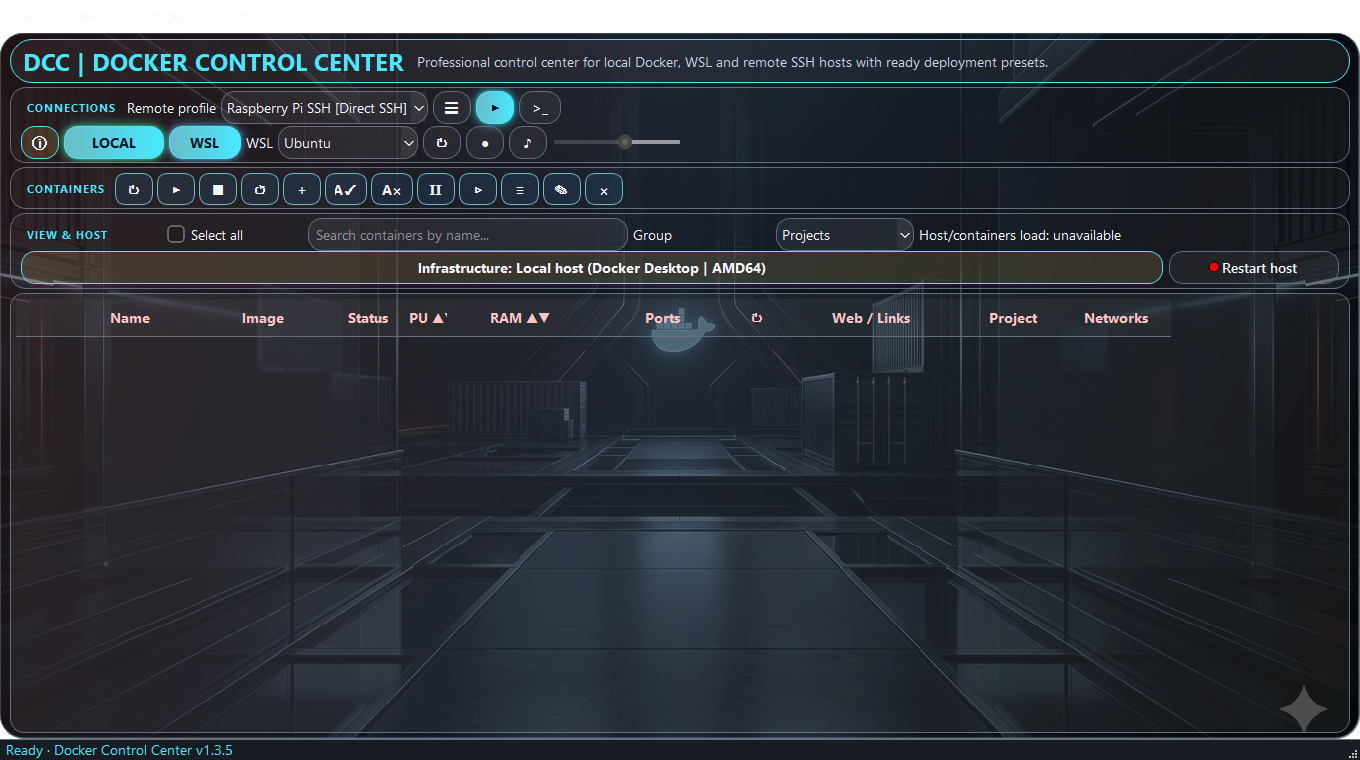
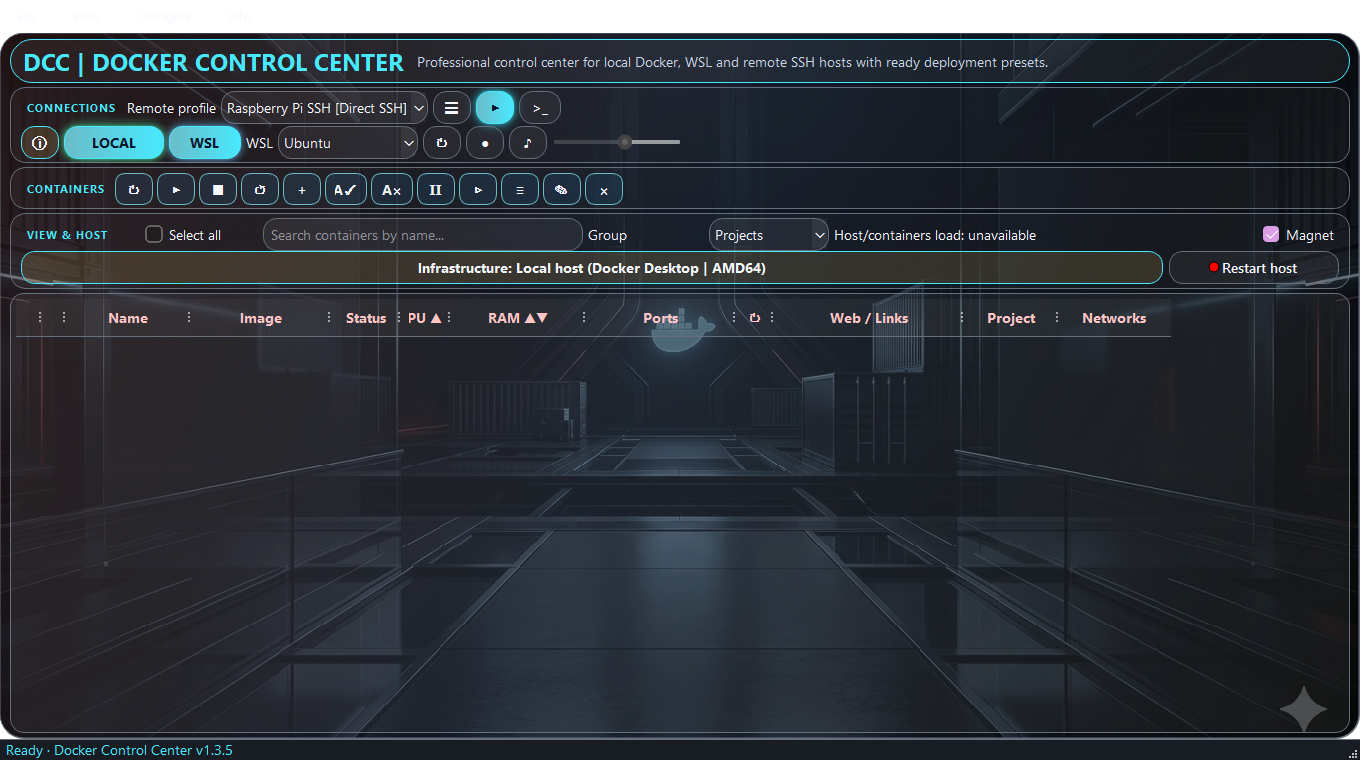
Update v1.3.5 release with latest UI changes

diff --git a/release/RELEASE_NOTES_1.3.5.md b/release/RELEASE_NOTES_1.3.5.md
@@ -14,6 +14,8 @@ Docker Control Center 1.3.5 is the first public release after v1.1.1 that consol
 - **Container search** — live filtering while typing container names.
 - **Project/network grouping** — containers can be grouped by project/Compose relationship or shared networks with collapsible groups.
 - **More compact container table** — optimized WWW/link controls, narrower autostart column, movable column widths and better use of vertical space.
+- **Persistent column layout** — manually adjusted column widths are saved and restored after restarting DCC; visible three-dot grips mark the draggable separators between columns.
+- **Optional Magnet mode** — enabled by default; keeps the user-defined column proportions while automatically fitting the whole table to the current window width, including during live window resizing.
 - **Improved port/link detection** — better detection and display of published addresses, IPs, web panels and exposed ports without clipping.
 - **UI scaling** — `Ctrl + mouse wheel` zoom for the container area, improved resize behavior, scrollable dialogs, smaller minimum window size and full-screen/maximize support.
 - **Opaque status area by default** — status text no longer blends with the background unless transparency is explicitly enabled.
@@ -44,6 +46,7 @@ Docker Control Center 1.3.5 is the first public release after v1.1.1 that consol
 - Automatic update checks are enabled by default and can be disabled.
 - Update notifications can be disabled independently.
 - Added manual **Check for updates**.
+- The README **Download Latest Version** buttons now link directly to the current Windows installer and Linux `.deb` assets instead of opening the release/repository page first.
 - Update prompt supports update now / remind later / cancel behavior.
 - Added **Reset application settings** while preserving connection profiles.
 - Added a separate **Factory reset** with an explicit warning explaining that profiles, saved credentials, LLM settings and local DCC data will be removed while Docker-host data remains untouched.
@@ -159,6 +162,8 @@ Model lists can be detected/refreshed where supported, and provider credentials 
 - **Wyszukiwarka kontenerów** — filtrowanie listy już podczas wpisywania nazwy.
 - **Grupowanie projektów i sieci** — kontenery mogą być grupowane wg projektu/Compose lub wspólnych sieci z rozwijanymi grupami.
 - **Bardziej kompaktowa tabela** — zoptymalizowane WWW/linki, węższy autostart, przesuwane szerokości kolumn i więcej miejsca na listę kontenerów.
+- **Zapamiętywanie szerokości kolumn** — ręcznie ustawione szerokości są zapisywane i odtwarzane po ponownym uruchomieniu DCC; trzy pionowe kropki pokazują miejsca, w których można złapać separator kolumn.
+- **Opcjonalny tryb Magnes** — domyślnie włączony; zachowuje ręcznie ustawione proporcje kolumn i automatycznie dopasowuje całą tabelę do szerokości okna podczas jego rozciągania lub zwężania.
 - **Lepsze wykrywanie IP/portów/paneli WWW** — poprawione adresy wystawionych usług i brak ucinania portów.
 - **Skalowanie UI** — `Ctrl + scroll` zmienia skalę obszaru kontenerów; poprawiono minimalny rozmiar okna, paski przewijania i pełny ekran/maksymalizację.
 - **Nieprzezroczysty status domyślnie** — tekst statusu nie zlewa się z tłem, dopóki użytkownik sam nie włączy przezroczystości.
@@ -189,6 +194,7 @@ Model lists can be detected/refreshed where supported, and provider credentials 
 - Automatyczne sprawdzanie aktualizacji jest domyślnie włączone i można je wyłączyć.
 - Powiadomienia o aktualizacjach można wyłączyć osobno.
 - Dodano ręczne **Sprawdź aktualizacje**.
+- Przyciski **Download Latest Version** w README prowadzą teraz bezpośrednio do aktualnego instalatora Windows i pakietu Linux `.deb`, zamiast najpierw otwierać stronę release/repozytorium.
 - Okno aktualizacji obsługuje aktualizację teraz / przypomnij później / anuluj.
 - Dodano **Reset ustawień aplikacji** bez usuwania profili połączeń.
 - Dodano osobny **Reset do ustawień fabrycznych** z ostrzeżeniem, które dokładnie opisuje usuwane profile, dane logowania, konfigurację LLM i dane DCC. Dane Dockera na hostach nie są usuwane.
